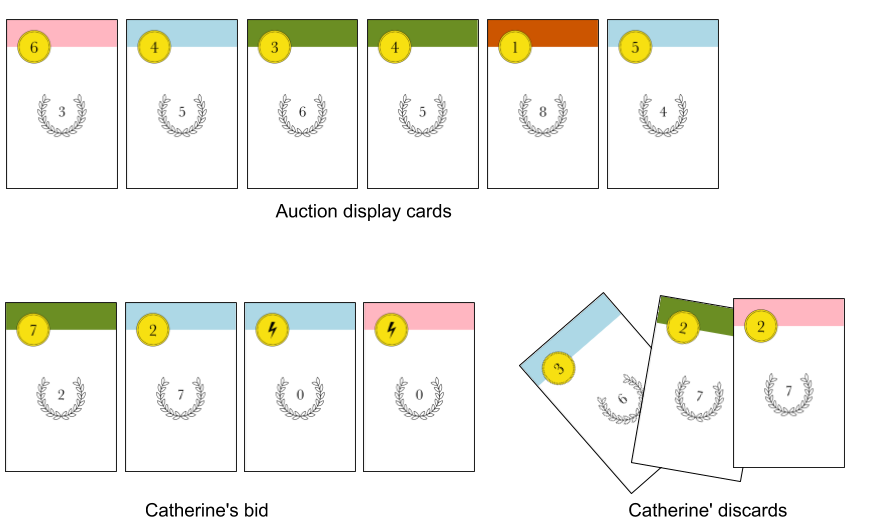
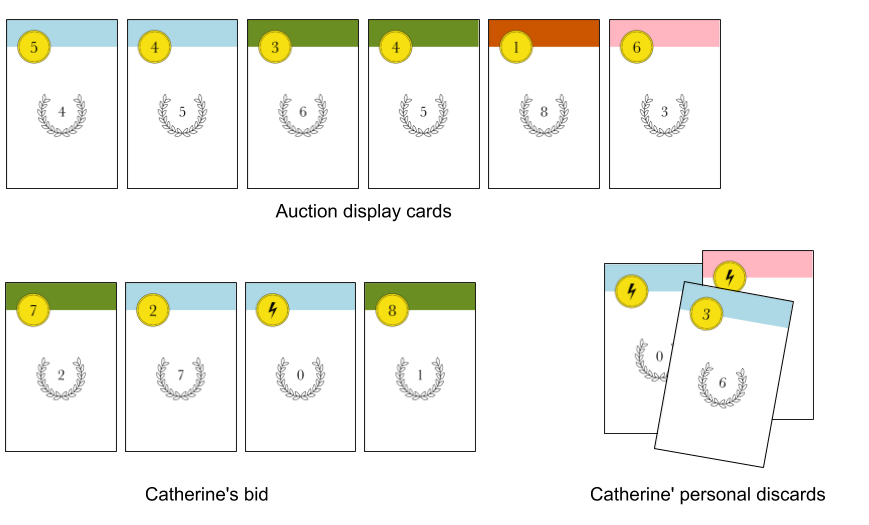
rewritten rules

diff --git a/RULES.md b/RULES.md
@@ -2,9 +2,9 @@
 
 # Intro
 
-A card game for 2 players, ages 10 and up. Playing time: 15 minutes. By Richard Hoile.
+A card game for 2 players, ages 10 and up. Playing time: 20 minutes. By Richard Hoile.
 
-Players compete to buy the best cards from a Dutch auction, where the cost of cards is constantly dropping. A fine balance must be struck - the cards needed to outbid, out-purchase and steal from your opponent during the game may not be the cards that score you the most points at the end of the game.
+Players compete to build the most valuable deck by buying cards from a Dutch auction, where the cost of cards is constantly dropping. But which cards to buy? Those richest victory points will not on their own allow you to outbid your opponent or activate the powers essential for building the finest deck.
 
 # Objective
 
@@ -23,28 +23,31 @@ All suits are identical in every respect other than their colour.
 Players should refer to non-power cards by their suit and bid value, for example 'red 1-bid' or 'blue 5-bid'.
 
 # Set-up
-Each player is dealt a personal deck of nine cards. Players may look at their personal deck, providing they shuffle it afterwards (see **Peaking at Cards** below). Each player takes the top five cards from their personal deck into their hand.
+Each player is dealt a **personal deck** of ten cards. Players can choose to discard any unwanted cards from their personal deck, replacing them with new cards. This is known as **taking a mulligan**, and may only be performed once.  The discarded cards should then be shuffled back into the main deck.
 
-The 22 remaining cards form the **auction deck**, which is placed face-down between the two players. Six cards are drawn from the auction deck and placed face-up in a row next to the auction deck - these are the **auction display cards**.
+Each player then shuffles their personal deck and places it face down in front of them. Each player then takes the top six cards from their personal deck into their hand.
+
+The 20 remaining cards form the **auction deck**, which is placed face-down between the two players. Six cards are drawn from the auction deck and placed face-up in a row next to the auction deck - these are the **auction display cards**.
 
 ![Set-up](diagrams/setup.png)
 
 # Gameplay
 ## Overview
 A round consists of the following phases:
-1. **Set aside one card from hand** (both players simultaneously)
-2. **Bid** (both players simultaneously)
-3. **Use powers and purchase cards** (first the winner of the bid, then the loser of the bid)
+1. **Set aside two cards**
+2. **Bid**
+3. **Winner purchases cards and/or activates powers**
+4. **Loser purchases cards and/or activates powers**
 5. **Restock auction display**
-6. **Draw new hand of cards** (both players simultaneously)
+6. **Draw new hand of cards**
 
 The phases are explained in more detail below.
 
 ## Phase 1. Set aside one card
-From their starting hand of five cards, each player chooses a single card to set aside *face down* and *on top of their personal deck*.
+From their starting hand of six cards, each player chooses two cards to set aside *face down* and *on top of their personal deck*.
 
 ## Phase 2. Bid
-Players now bid for the right to go first in phase 3, by playing all four cards from their hand face down. Both bids are revealed simultaneously.
+Players now bid for the right to go first in the next phase, by playing all four cards from their hand face down. Both bids are revealed simultaneously.
 
 The total value of a players's bid is the sum of each card's bid value. Power cards have a bid value of zero. The player with the higher bid is the winner.
 
@@ -54,33 +57,10 @@ If the players' total bids tie, each player must add the top card from their per
 
 ![Bidding](diagrams/bidding.png)
 
-## Phase 3. Activate powers and purchase cards
-In phase three the players may **activate a power card** and/or **purchase cards from the auction display**. The winner of the phase 2 bid goes first.
-
-### Activate powers
-
-All power cards in a player's bid can be activated. When activated, each power card may perform any one of the following powers:
-
-**Cash in a card**: Allows player to select another card *of the same suit* from their bid, and remove it from the game. Once removed, the card will no longer be part of the player's deck, but will still count towards the player's VPs at the end.
-
-**Change a card's suit**: Allows player to temporarily change the suit of another card  *of the same suit* from their bid (e.g. a red power card can turn another red card into a blue card). To indicate that the card has changed suit, its coloured band should be covered up by the power card.
-
-**Take card from auction discards, personal discards or auction display cards**: Allows player to retrieve a card that matches the suit of the power card. The taken card may then be added to the player's bid. If the taken card is a power card, then that power is in turn activated.
-
-**Steal card from opponent's bid**: As above, except player takes a card from *their opponent's bid*. This power is only available to the winner of the phase 2 bid.
-
-Power cards only act on cards that 1) of the same suit as the power card and 2) part of the player's bid (or the opponent's bid, in the case of the Steal power).
-
-After activation, power cards remain in the player's bid and can be used to purchase cards (along with any cards taken or stolen by the power card).
-
-*In the example below, Catherine has won the phase 2 bid with a bid value of 7+2+0+0=9. Now her blue and pink power cards can be activated. She uses the blue power card to cash in her blue 2-bid, which she puts aside until the end of the game (see Clarifications for an explanation of why she may want to do this). She then uses her pink power card to take the pink 2-bid from her personal discards and adds it to her bid. Her bid will now consist of four cards: a green 7-bid, a blue power card, a pink power card and a pink 2-bid.*
-''
-![Powers](diagrams/powers.png)
+## Phase 3. Winner purchases cards and/or activates powers
+The winner of the bid may now **purchase cards from the auction display** and/or **activate a power card**, any number of times and in any order.
 
 ### Purchase cards
-
-After optionally playing power cards, the player may now purchase cards from the auction display, paying for them using cards from their bid.
-
 The cost of the auction display cards is determined by their position, as illustrated below. The 5-cost card, for example, costs five cards.
 
 ![Cost of cards](diagrams/cost_of_cards.png)
@@ -89,7 +69,7 @@ To pay for a card, the player takes the correct number of cards from their bid a
 * their **personal discard pile** - if the purchased card matches the suit of the card used to purchase it.
 * the **auction discard pile** - if the purchased card does not match the suit of the card used to purchase it.
 
-The purchased cards themselves are always added to the player's *personal discard pile*, not to the bid (in this respect, purchased cards differ from cards taken or stolen using power cards).
+The purchased cards themselves are always added to the player's *personal discard pile*, not to the bid.
 
 Players may make as many purchases as they can afford.
 
@@ -103,71 +83,68 @@ If the player is purchasing a multiple-cost card, some of the cards used for pur
 
 ![Purchasing](diagrams/purchasing2.png)
 
-There may be occasions when a player will want to activate a power card **after** they have made a purchase. See **Further power card examples** below.
+### Activate power cards
+All power cards in a player's bid can be activated. Activating power cards can take place before or after purchasing cards. When activated, a power card may perform either of the following powers:
 
-### End of winner's phase 3 actions
+- **Add a power card (of any suit) from a player's personal discards to their bid**: Any extra power card added to the bid in this way is immediately activated.
+- **Purchase card at one-cost from the auction discard pile or auction display**: Allows player to purchase *any single* card from one of these two locations. If purchasing a card from the auction display, the position of the auction display card (e.g. 3-cost, 5-cost) can be ignored - all cards cost just the power card. Normal purchasing rules are followed - including the rule that the power card used for purchasing is placed in the personal discards if it matches the suit of the purchased card, or in the auction discards if it doesn't match.
+
+*In the example below, Catherine has won the phase 2 bid with a bid value of 7+2+0+8=18. She activates the blue power card to retrieve the pink power card from the personal discards, which is in turn activated and retrieves the second blue power card from the personal discards. Thhis blue power card is activated and is used to purchase the pink 6-bid from the auction display - both the pink power card and the pink 6-bid are then placed in the personal discards. At the end of this series of power activations, her bid consists of a green 7-bid, a blue 2-bid and two blue power cards, all of which can be used for purchasing cards.*
+''
+![Powers](diagrams/powers.png)
+
 After the winner of the bid has finished performing their phase 3 actions, they put any unused bid cards in their personal discards.
 
-It is now the loser of the bid's turn to perform their phase 3 actions. These are performed in the same way, but with two exceptions:
-- the loser must purchase the 1-cost card if it has not yet been purchased
-- the 'steal' power is not available to the loser
+## Phase 4. Loser purchases cards and/or activates power cards
+Now it is the loser's turn to purchase cards and/or activate power cards. There is only one difference: **the loser must receive the one-cost card for free** if it has not already been purchased.
 
-## Phase 4. Restocking the auction display
+## Phase 5. Restocking the auction display
+The auction display is restocked only after phases 3 and 4 have been performed.
 
-The auction display is restocked only after both players have performed their phase 3 actions.
-
-Any cards not purchased or taken by a power card during phase 3 will remain in the auction display, but are shifted leftwards so that they occupy the lowest cost positions, with no gaps between cards. The auction display is then restocked with new cards from the auction deck.
+Any cards not purchased during phases 3 and 4 will remain in the auction display, but are shifted leftwards so that they occupy the lowest cost positions, with no gaps between cards. The auction display is then restocked with new cards from the auction deck.
 
 *In the example below, there are only three cards left in the auction display after the players have made their purchases, in the 2-cost, 3-cost and 4-cost positions respectively. To fill in the gaps, the remaining cards are all shifted as far left as they can go, and three new cards are added from the auction deck.*
 
 ![Restocking](diagrams/restocking_auction_display.png)
 
-## Phase 5. Drawing a new hand of cards
+The example below shows how the order in which phase 3 and phase 4 actions are performed is flexible. *Frida uses her pink power card to purchase the pink 8-bid from the auction display - both cards are placed in her personal discards. She then uses her blue power card to retrieve the pink power card from her personal discards and return it to her bid. She then uses the retrieved pink power card to purchase the pink 4-bid from the auction display. She is left with the blue power card, red 3-bid and the green 2-bid in her bid, which she can use to purchase cards.*
 
-Players draw a new hand of five cards from the top of their personal deck. (The first of the five cards to be drawn will be the card discarded during phase 1.)
+![Purchasing](diagrams/purchasing3.png)
 
-If there are less than five cards in a player's personal deck, the player should shuffle their personal discards and turn them upside down to form a new personal deck. Any remaining cards from the old deck should be placed face down on top of the new deck. The player can now draw their hand of five cards from the new deck.
+## Phase 6. Drawing a new hand of cards
+
+Players draw a new hand of six cards from the top of their personal deck. (The top two cards of their personal deck will be the cards set aside during phase 1.)
+
+If there are less than six cards in a player's personal deck, the player should shuffle their personal discards and turn them face down to form a new personal deck. Any remaining cards from the old deck should be placed face down on top of the new deck. The player can now draw their hand of six cards from the new deck.
 
 When both players have drawn their hand, a new round will begin, starting at phase 1.
 
 # End of the game
 
-Play continues until 1) the auction deck is exhausted and 2) either there are no auction display cards left, or neither player wants to purchase any that remain.
+From the moment when the last card of the auction deck is added to the auction display, play will continue for one more round.
 
-At this point, players gather together their personal deck, discards and any cashed-in cards, and then sum their total VPs. **In addition, both players receives a VP bonus for each of their suits, equal to the VP of the lowest-scoring card in that suit.**
+At the end of this final round, players gather together their personal deck and discards, and then arrange these cards by suit. Points are scored as follows:
+- For the long suit (i.e. the suit in which the most cards are held): score each card
+- For all other suits, score only the two lowest-scoring cards
 
 The player with the most VPs is the winner. If players are tied for the highest score, the player with the fewest cards wins.
 
-*In the example below, the game has ended and Imran has sorted all his cards by suit to make scoring easier. He scores his suits as follows (with the final number in each sum being the bonus):*
-- Pink: 7 + 8 + 7 = 22
-- Green: 3 + 6 + 8 + 3 = 20;
-- Blue: 0 + 0 + 2 + 5 + 7 + 0 = 14
-- Red: 0 + 7 + 0 = 7
+*In the example below, the game has ended and Imran has sorted all his cards by suit to make scoring easier. He scores his suits as follows:*
+- Pink: 7 + 8  = 15
+- Green: 3 + 6 = 9
+- Blue (long suit): 0 + 0 + 2 + 5 + 7 = 14
+- Red: 0 + 7 = 7
 
 ![Restocking](diagrams/scoring.png)
 
-*Imran's total score:* 22 + 20 + 14 + 7  = 63.
+*Imran's total score:* 15 + 9 + 14 + 7  = 63.
 
-# Peaking at cards
+# Looking at cards
 
 During the game, players may look through their personal discards and the auction discards, but not those of their opponent. In addition, they may look through their personal deck, providing they shuffle it afterwards. It is not permitted to look through the auction deck at any time.
-
-# Further power card examples
-
-The example below shows how the order in which phase 3 actions are performed is flexible. Frida uses her pink 3-bid to buy the pink 4-bid from the auction display. She then uses her pink power card to retrieve the pink 3-bid from her personal discards and return it to her bid. She finally uses the retrieved pink 3-bid with her pink power card to purchase the pink 8-bid from the auction display.
-
-![Purchasing](diagrams/purchasing3.png)
-
-In the next example, Femi uses his blue power card in the following example to 'cash in' his blue 3-bid. He then uses his red power card to take the red power card from the auction discards and add it to his bid. This new red power card is in turn activated, and he uses it to temporarily change the suit of the red 4-bid to pink. His 4-bid (which is now temporarily pink) is then used to purchase the 1-cost card from the auction display - and because the purchasing card matches the colour of the purchased card, he gets to put it in his personal discards rather than losing it to the auction discards.
-
-![More about power cards](diagrams/more_about_power_cards.png)
 
 # Clarifications
 
 **Does the suit of a card matter when bidding in phase 2?** No, only the bid value of the card is relevant for bidding.
 
-**Does the bid value of a card matter when used for purchasing a card during phase 3?** No, only the suit of a the card is relevant for purchasing.
-
-**When you purchase a card, does the newly purchased card get added to the player's bid?** No - whereas a power card may retrieve a card from a pile (e.g. the auction discards) and add that card to the bid, a purchased card is never added to the bid. It is always placed immediately in the player's discards.
-
-**Why would someone want to 'cash in' a card?** By cashing in a card, that card is taken out of play until the end of the game, when it will count towards a player's victory points. There are two reasons to cash in: 1) a cashed-in card cannot be stolen by an opponent's power card; 2) if a card has a low bid-value, by cashing it in you are effectively strengthening your deck's overall bid power.
+**Does the bid value of a card matter when used for purchasing a card during phase 3/4?** No, only the suit of a the card is relevant for purchasing.
